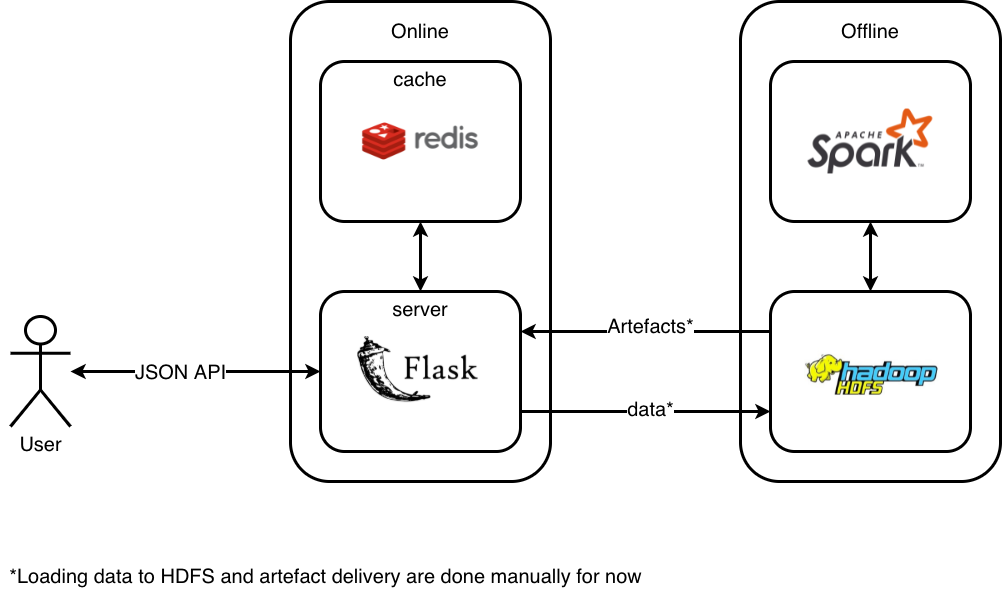
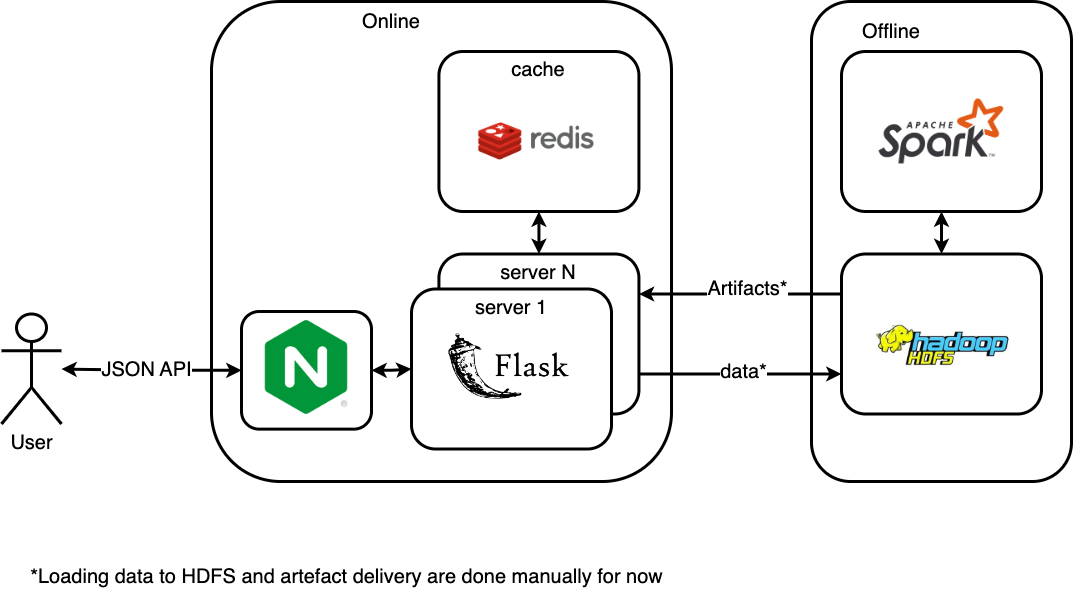
Scale botify recommenders

diff --git a/botify/README.md b/botify/README.md
@@ -10,13 +10,13 @@
 ## Инструкция
 
 1. [Устанавливаем docker](https://www.docker.com/products/docker-desktop)
-1. Собираем образы и запускаем контейнеры
+1. Собираем образы и запускаем контейнеры (2 рекомендера в параллель)
    ```
-   docker-compose up -d --build 
+   docker-compose up -d --build --scale recommender=N
    ```   
 1. Смотрим логи рекомендера
    ```
-   docker logs recommender-container
+   docker logs botify_recommender_n
    ```
 1. Останавливаем контейнеры
    ```
@@ -44,5 +44,5 @@ curl -H "Content-Type: application/json" -X POST -d '{"track":10,"time":0.3}'  h
 ```
 Скачиваем логи пользовательских сессии с контейнера
 ```
-docker cp recommender-container:/app/log/ /tmp/
+docker cp botify_recommender_n:/app/log/ /tmp/
 ```
